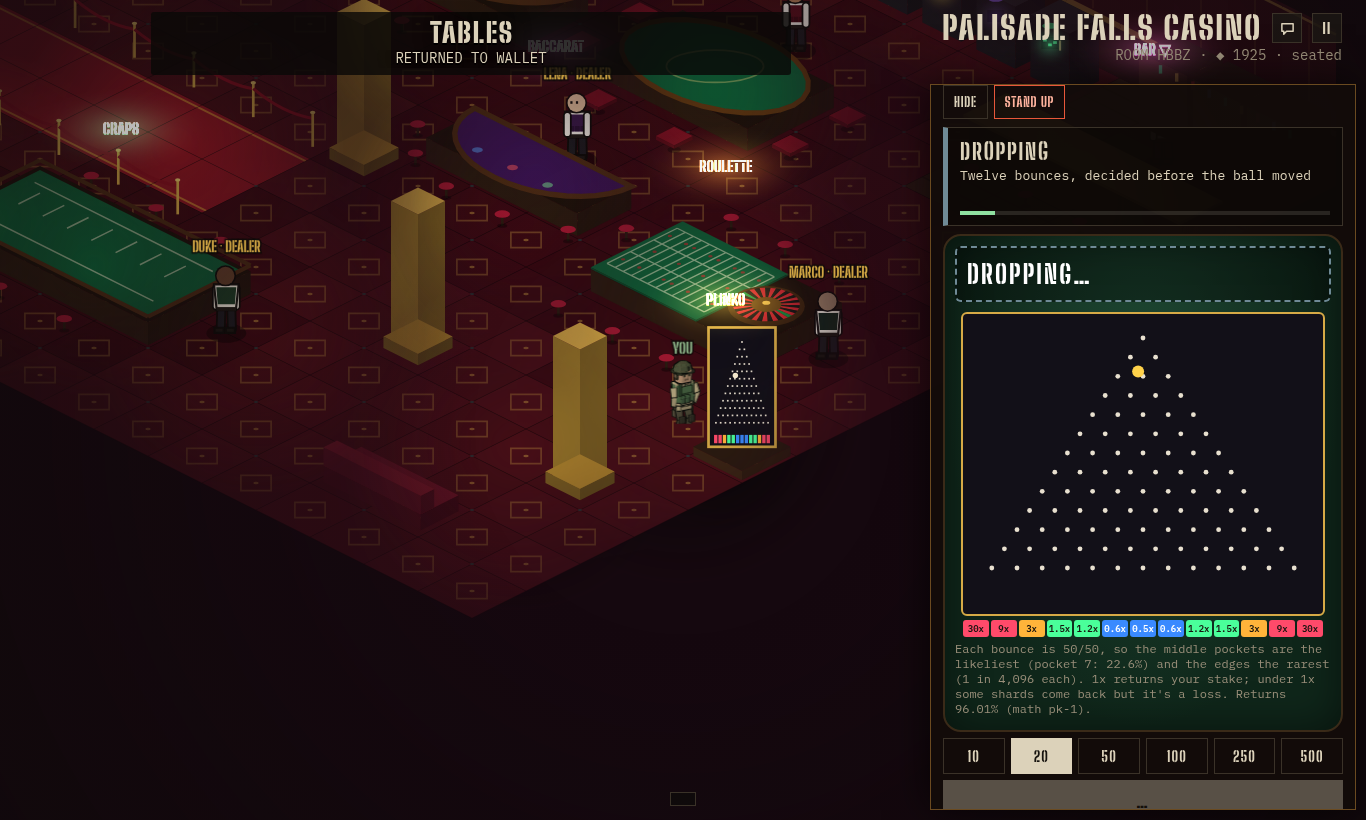
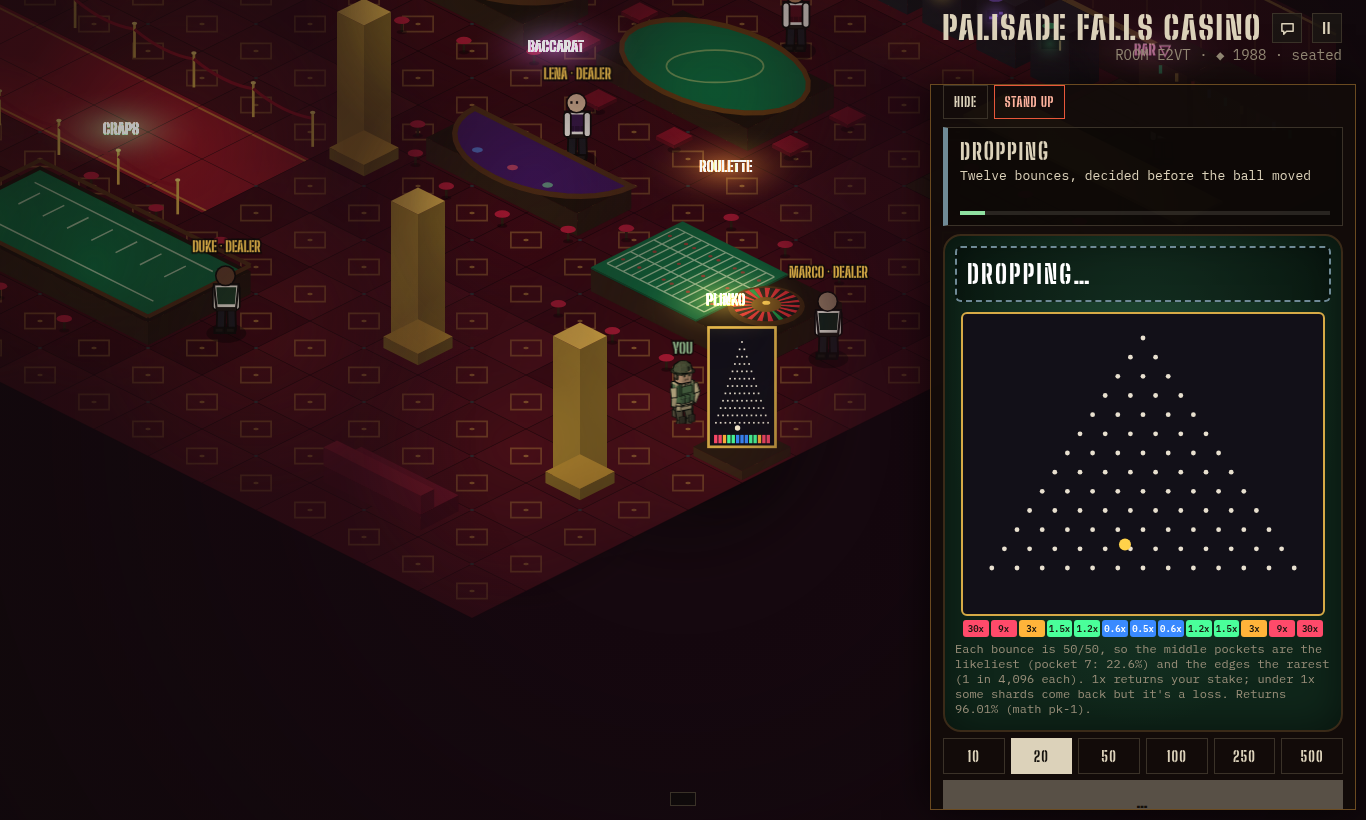
v0.10.3: the Plinko evidence from the ball-tracking run; STATUS records the regression run (45/46) and that blackout_network's intermittent failure predates this release
Claude-Session: https://claude.ai/code/session_01WeyJKfnzwEanjjbYerZiDo

diff --git a/dev/STATUS.md b/dev/STATUS.md
@@ -23,6 +23,8 @@ Built from [the casino expansion work order](plans/casino-expansion-and-result-r
   - The board's animation was tied to the view that drew it. The table's once-a-second poll brings a new view, and the board's HTML doesn't change mid-drop, so the canvas wasn't redrawn. The ball stopped within a second, then jumped to its pocket when the result showed.
   - It now draws from the latest view.
   - `casino_games_ui` tracks the ball on the canvas through the drop. It reproduced the freeze before the fix (stuck at the same height from 0.9 s to 2.9 s) and passes after it.
+  - Regression after both changes: 45 of 46 passed (`@tables @casino @music @net csp restore_schema @smoke accounts friends menu_audit index_page v090 controller`).
+  - The one failure, `blackout_network` (a raider spawned next to the guest isn't on the guest's screen 800 ms later: `near: false`), is intermittent and not from this release. Alone it failed 1 in 3 here, and 1 in 6 on v0.10.1 (`ca90257`) with the same assertion. Not yet root-caused.
 
 - **New games (server-run, whole shards, provably fair):**
   - **Baccarat:** 8-deck mini-baccarat from a persistent shoe. Banker bets go in 20s (pays 19:20), Tie 8:1. Each hand's cards check against fingerprints fixed when the shoe starts; the seed and the whole shoe come out when it retires.
